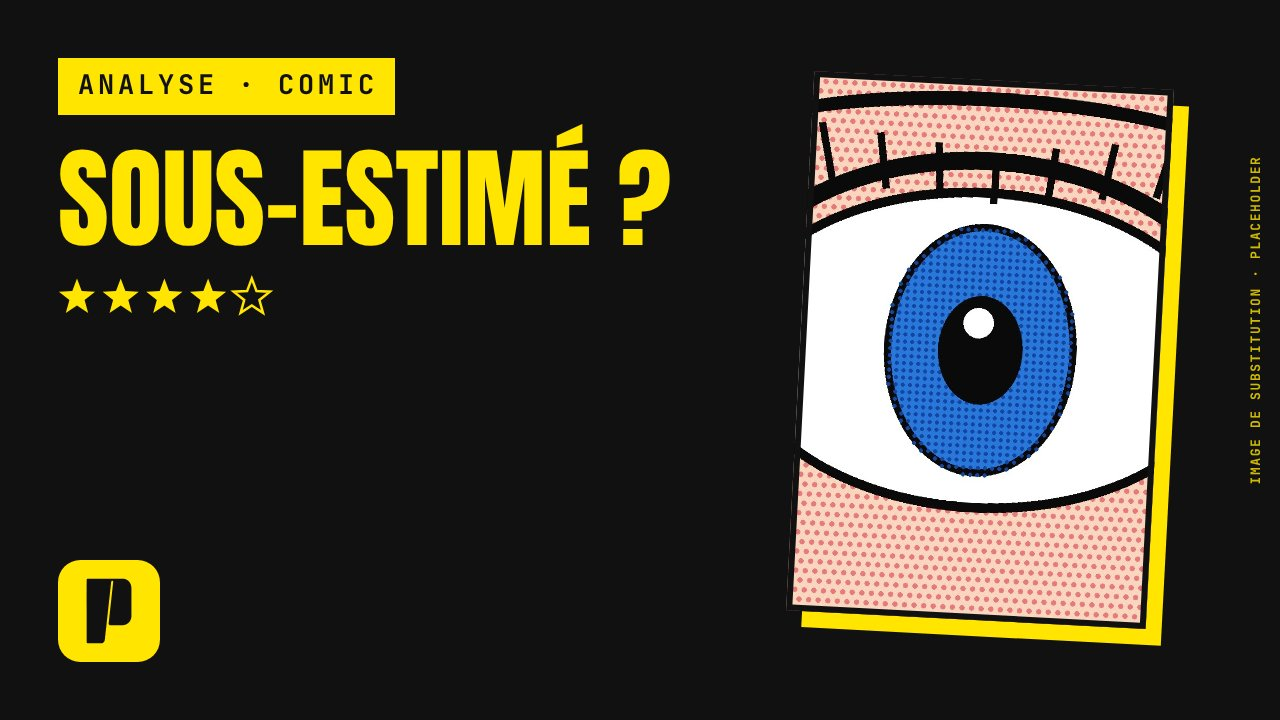
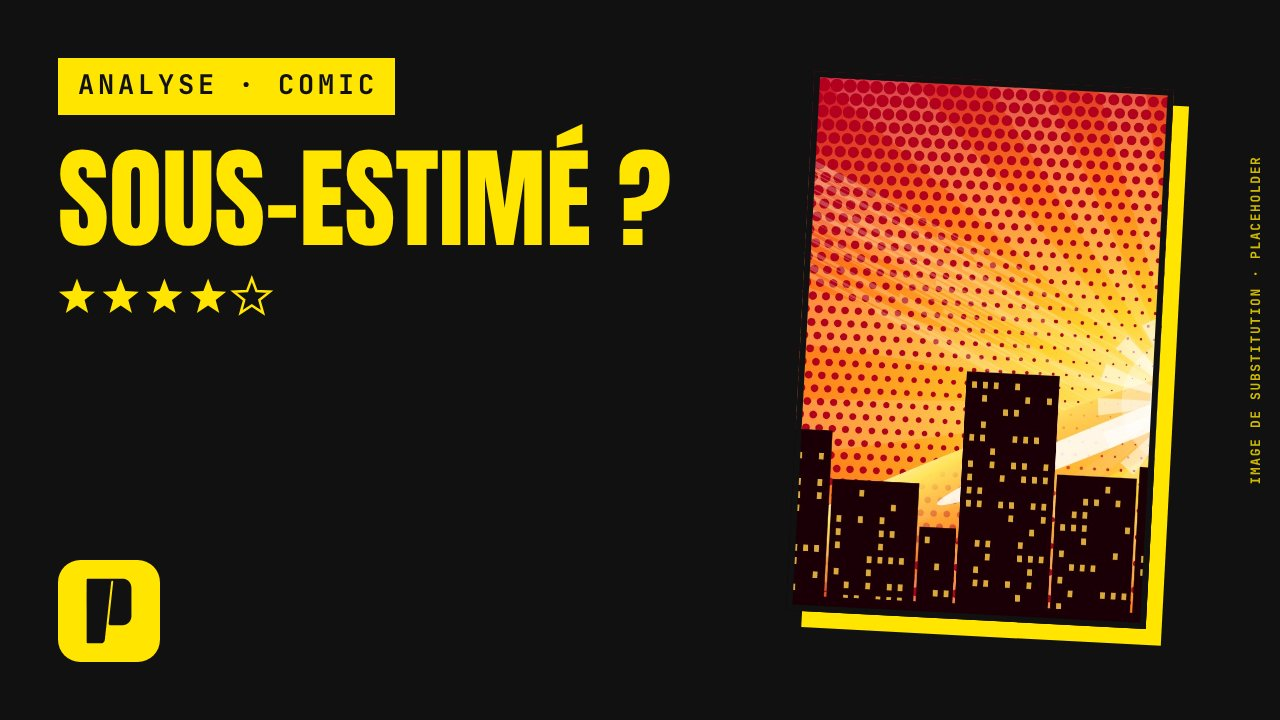
Illustrations de démonstration originales et sélection des effets plein cadre
- Nouvelles images PLACEHOLDER (pop, noir, cosmos, encre) dessinées en SVG et rendues par
  Chromium (tools/gen-placeholders.mjs), mêmes noms et dimensions ; exemples régénérés
- Motion Studio : toucher le fond ne sélectionne plus un effet plein cadre (onglet Calques)

Claude-Session: https://claude.ai/code/session_01C9J7sP4hWmoAXddhwaZBtJ

Changed region(s): [[0.5938, 0.0917, 0.9375, 0.8861]]

diff --git a/atelier/motion/scene.js b/atelier/motion/scene.js
@@ -23,7 +23,9 @@ export function initScene(ctx) {
   // Les effets plein cadre ne masquent pas les éléments situés dessous : ils ne sont choisis qu'en dernier recours
   function sous(p, profond = false, liste = S.doc.elements, effets = false) {
     if (effets === false) { const r = sous(p, profond, liste, null); if (r) return r; return sous(p, profond, liste, true); }
-    for (const e of [...liste].reverse()) { if (e.visible === false || e.verrou || (effets === null && e.type === 'effet')) continue;
+    // Un effet plein cadre (trame, grain, lumière…) ne se sélectionne pas en touchant la scène : onglet Calques
+    const plein = (e) => e.type === 'effet' && e.w >= W() * 0.95 && e.h >= H() * 0.95;
+    for (const e of [...liste].reverse()) { if (e.visible === false || e.verrou || (effets === null && e.type === 'effet') || plein(e)) continue;
       if (e.enfants && (profond || S.sel.some((id) => e.enfants.some((c) => c.id === id)))) { const c = sous(p, profond, e.enfants, effets); if (c) return c; }
       if (dedans(e.id, p)) return e; }
     return null;

diff --git a/brand/99_tests/README.md b/brand/99_tests/README.md
@@ -1,4 +1,4 @@
 # Tests
 
-- `substitution/` : images générées par `tools/gen_placeholders.py` pour tester le système sur des styles variés. Aucune valeur de marque.
+- `substitution/` : illustrations originales générées par `tools/gen-placeholders.mjs` (SVG rendu par Chromium) pour tester le système sur des styles variés. Aucune valeur de marque.
 - `client/` : à créer pour vos illustrations Marvel, DC et indépendantes. **Ignoré par Git**, jamais publié, jamais intégré aux ressources officielles.
